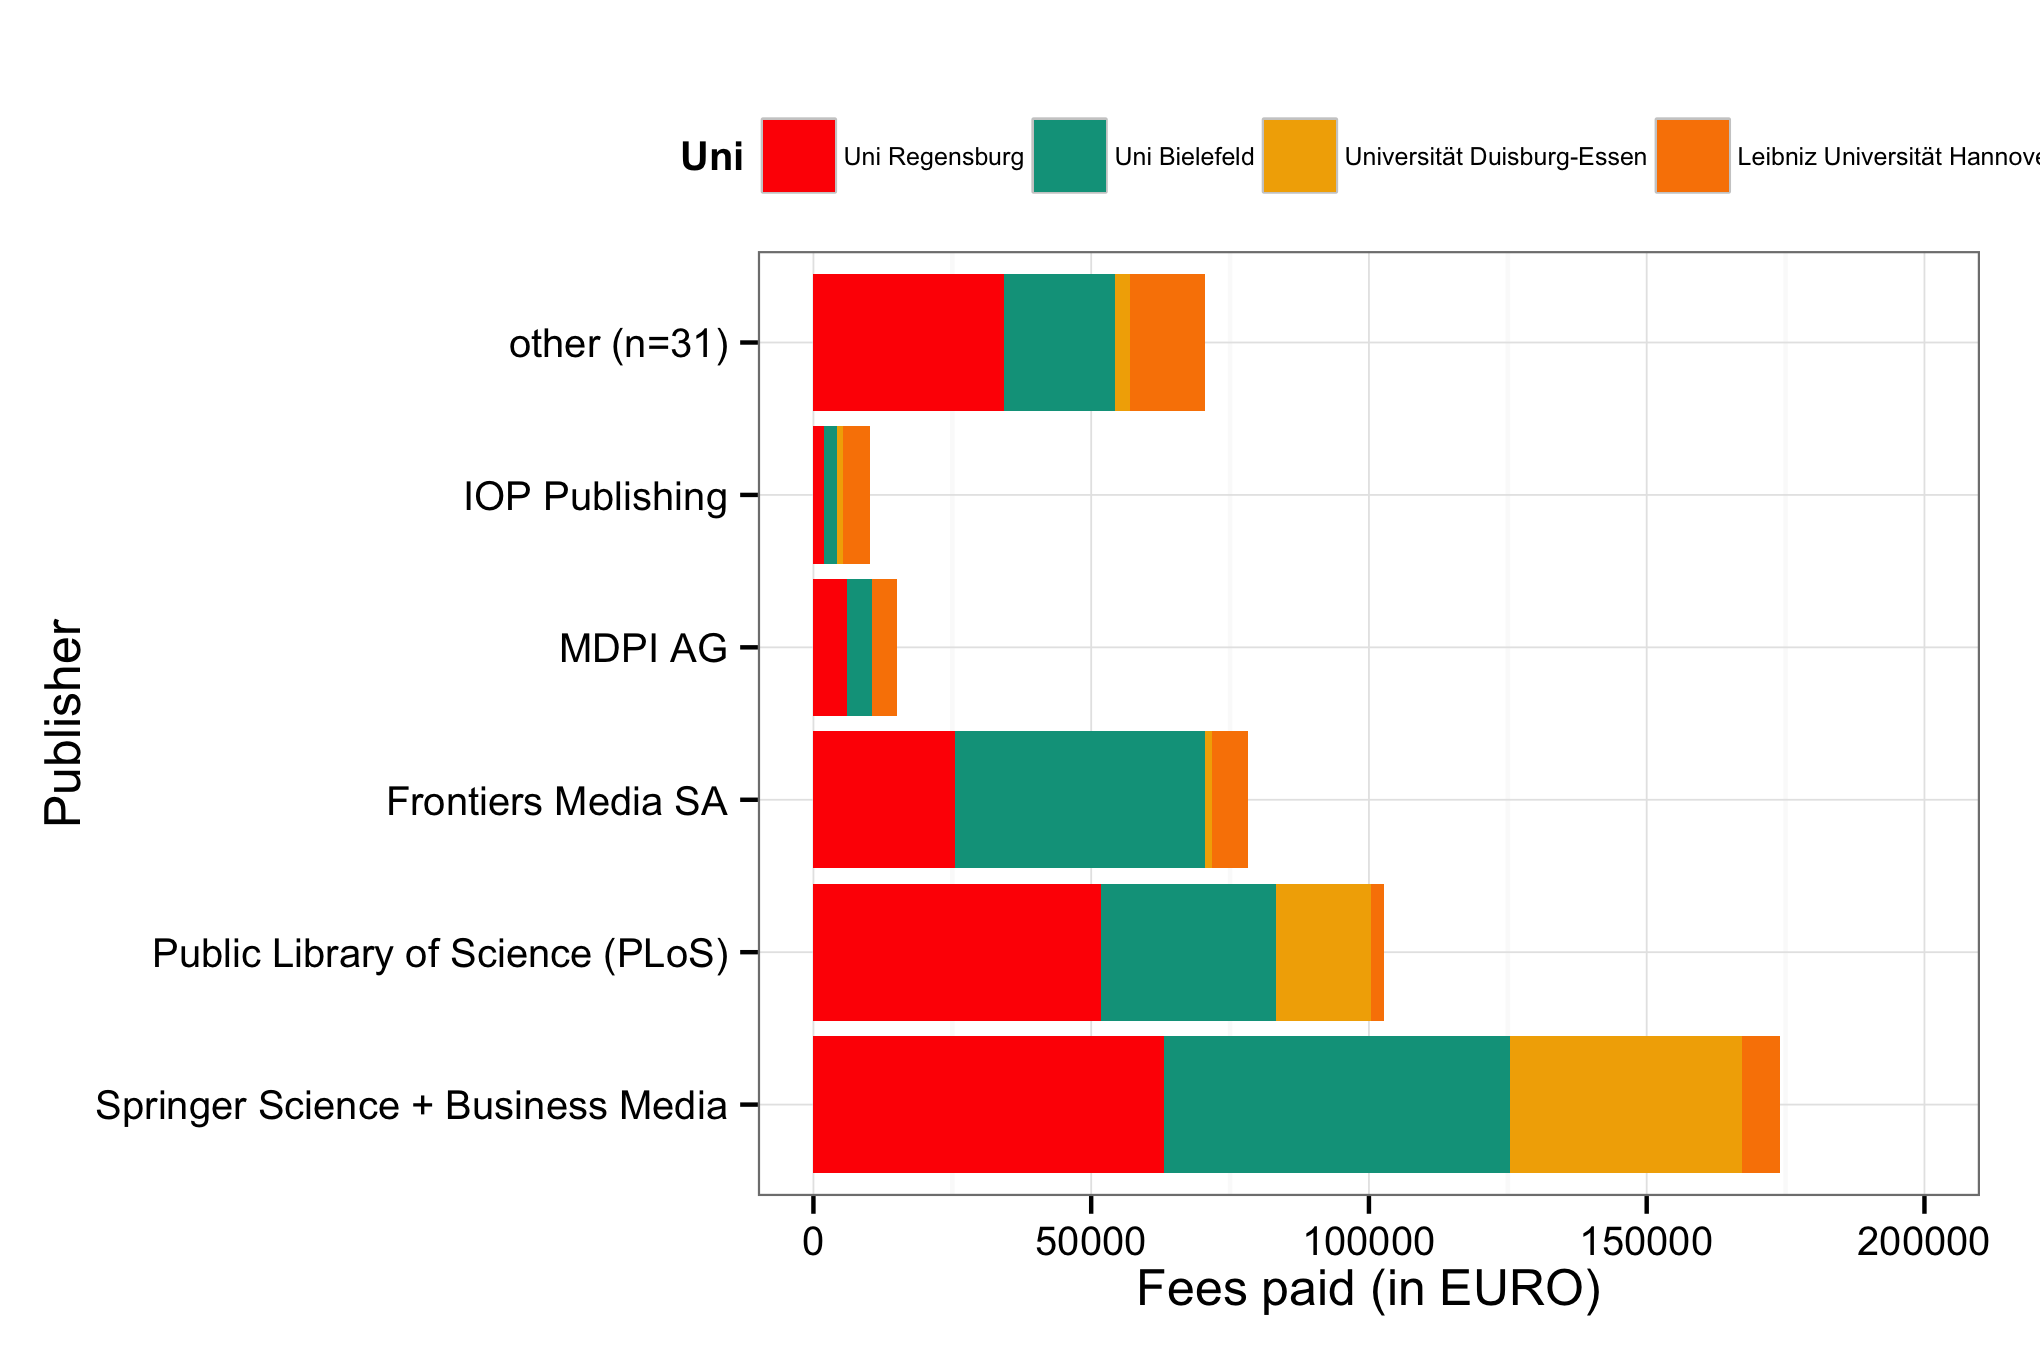
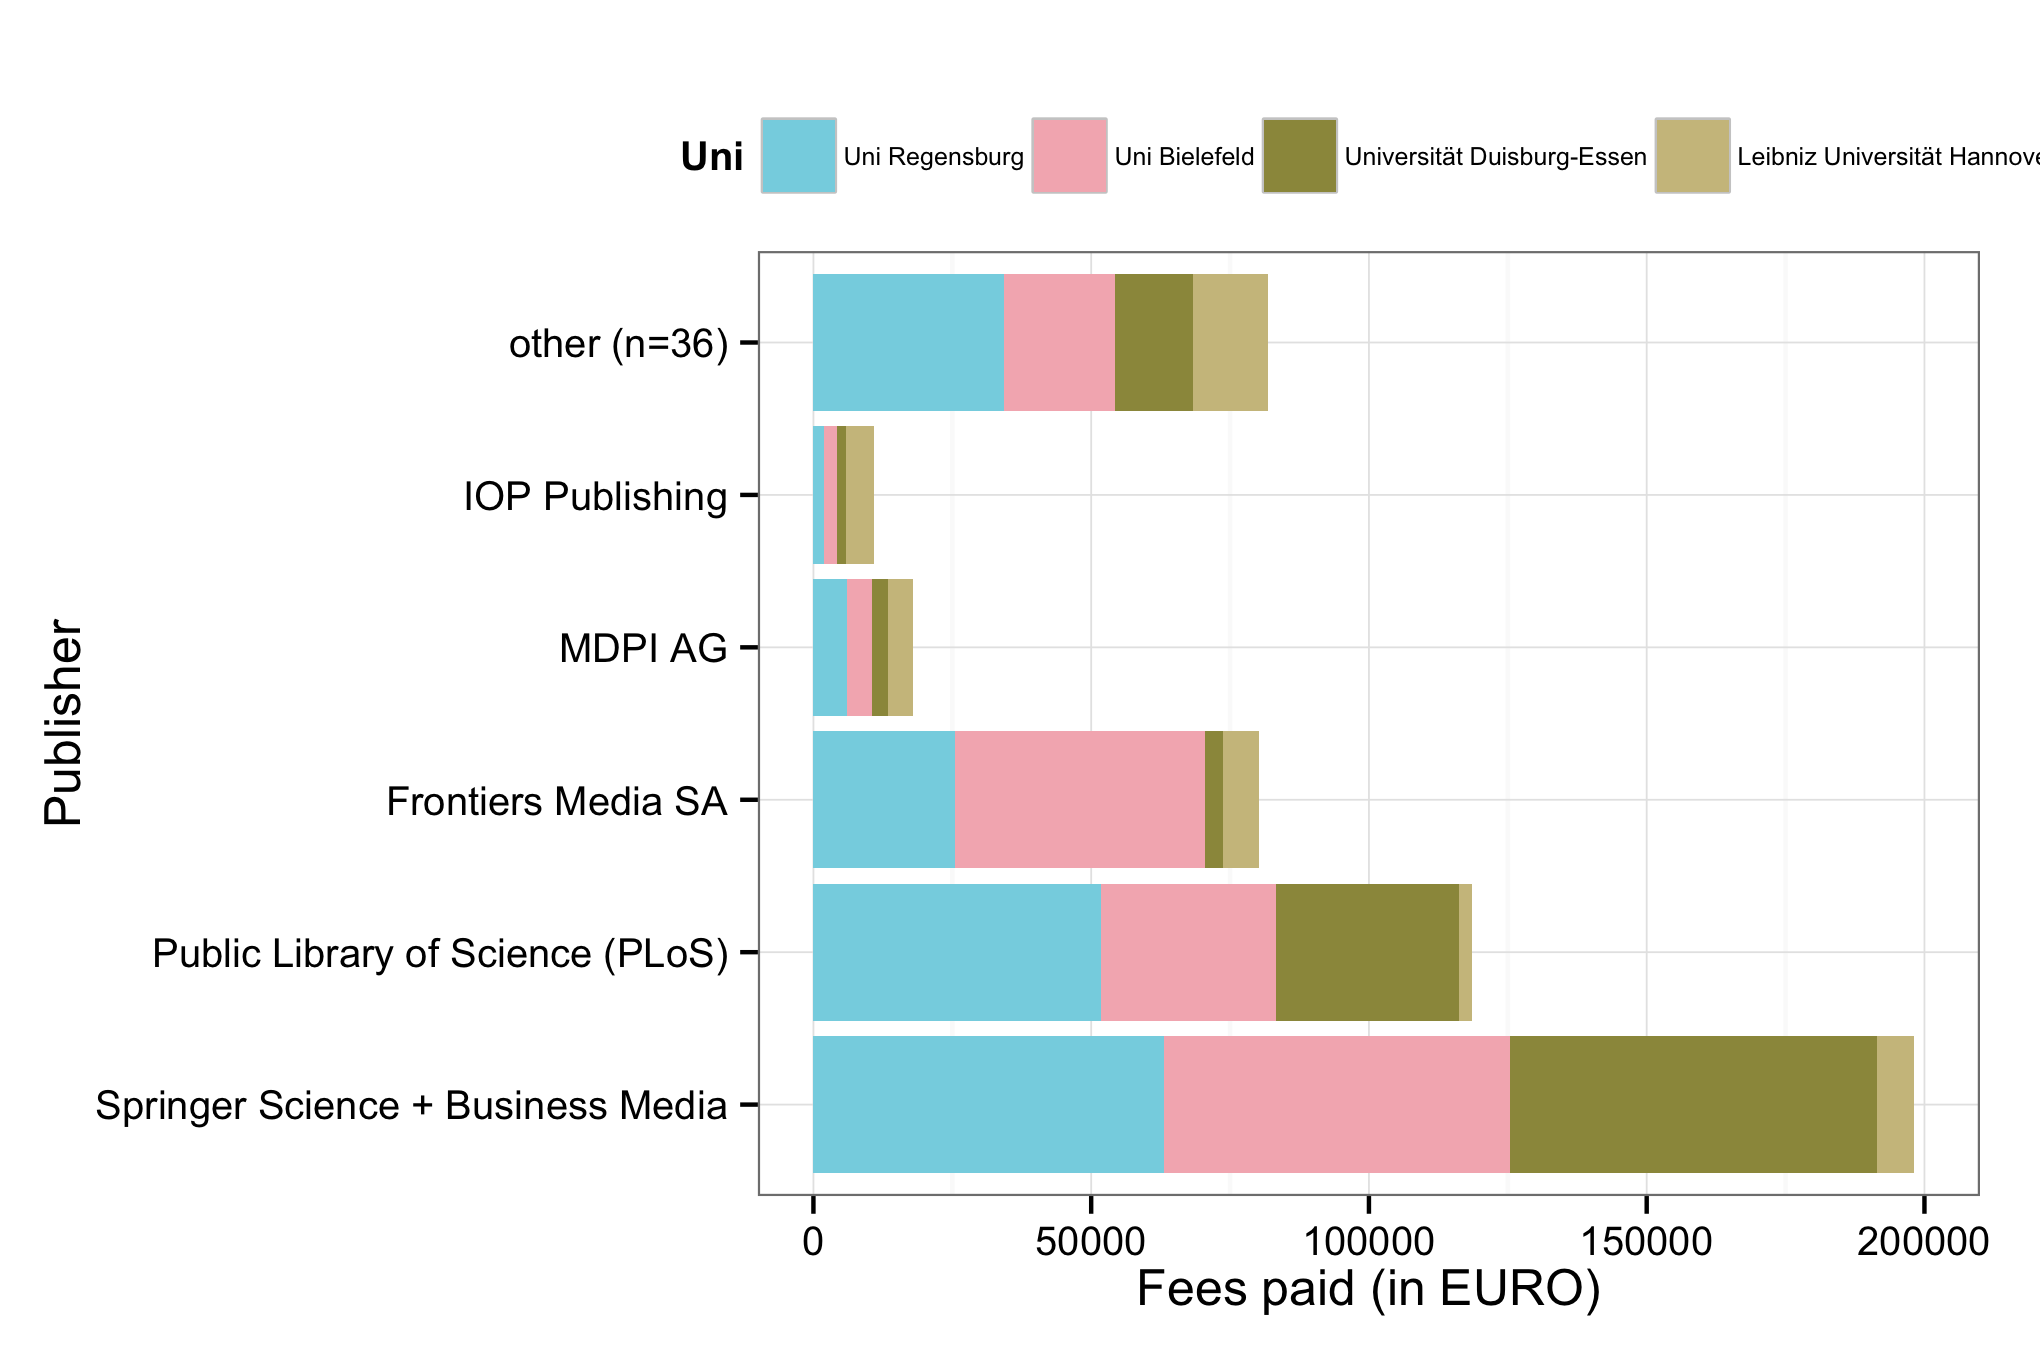
uni duisburg-essen 2014 ergaenzt

diff --git a/README.md b/README.md
@@ -8,7 +8,7 @@ The aim of this repository is:
 
 ## Dataset
 
-At the moment, the dataset releases information on 390 articles, with total expenditure of 450,702.70 EURO.
+At the moment, the dataset releases information on 441 articles, with total expenditure of 507,650.70 EURO.
 
 View dataset on [GitHub](https://github.com/njahn82/unibiAPC/blob/master/data/apc_de.csv).
 
